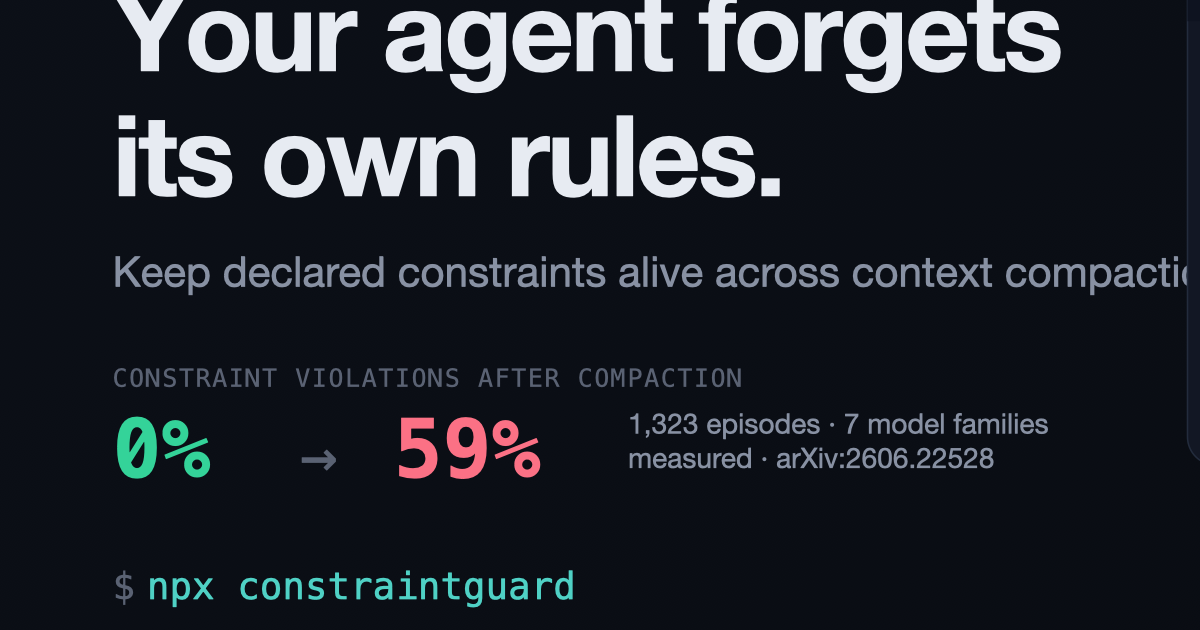
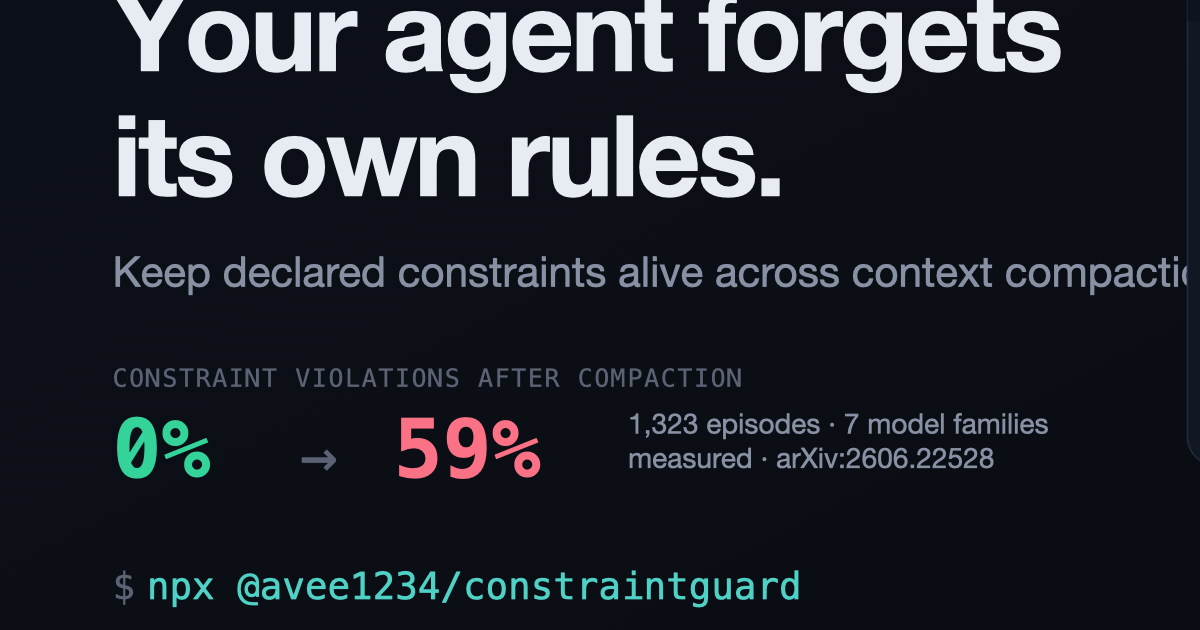
Video v3 (polish + scoped) & site: switch to @user/constraintguard
- Scoped everywhere: npx/npm/import + npm links now @user/constraintguard
  (site, OG card, video). cg bin unchanged.
- Video polish: cohesive per-scene enter/exit motion, live blinking terminal
  cursor, and a redesigned 67s outro with the scoped command + github / npm /
  substack links. Re-rendered + re-scored with the instrumental track.

Changed region(s): [[0.185, 0.9048, 0.6783, 0.9651]]

diff --git a/video-src/launch-video.html b/video-src/launch-video.html
@@ -36,7 +36,12 @@
   .chip{display:inline-flex;align-items:center;gap:10px;font-family:Menlo,monospace;font-size:30px;padding:16px 26px;border-radius:14px;border:1px solid #232c3d;background:#121724;margin:9px;color:#cdd3dc;}
   .chip .d{width:12px;height:12px;border-radius:50%;background:#4fd1c5;}
   .cta-cmd{font-family:Menlo,monospace;font-size:58px;font-weight:700;}
-  .cta-url{font-size:34px;color:#8891a3;margin-top:22px;letter-spacing:.4px;}
+  .cta-url{font-size:32px;color:#8891a3;margin-top:22px;letter-spacing:.4px;}
+  .links{display:flex;flex-direction:column;gap:15px;margin-top:46px;}
+  .lrow{display:flex;align-items:center;gap:22px;}
+  .ltag{font-family:Menlo,monospace;font-size:19px;color:#4fd1c5;width:120px;text-align:right;letter-spacing:1px;}
+  .lval{font-family:Menlo,monospace;font-size:29px;color:#c3cad6;}
+  #tcur{color:#4fd1c5;}
   /* terminal */
   .term{width:1120px;background:#0c111b;border:1px solid #232c3d;border-radius:18px;box-shadow:0 50px 120px -40px rgba(0,0,0,.75);overflow:hidden;font-family:Menlo,monospace;}
   .term-bar{display:flex;align-items:center;gap:9px;padding:16px 20px;background:#0e1320;border-bottom:1px solid #202839;}
@@ -109,6 +114,7 @@
       <div id="t4" class="out">→ retention <span class="rose">54%</span>   6 survived · <span class="rose">5 dropped</span></div>
       <div id="t5" style="margin-top:14px;"><span class="p">$</span> <span class="cmd">cg pin constraints.json after.md</span></div>
       <div id="t6" class="out">→ re-pinned · re-check retention <span class="green">100%</span> ✓</div>
+      <div id="t7" style="margin-top:16px;"><span class="p">$</span> <span id="tcur">▋</span></div>
     </div>
   </div></div></div>
 
@@ -129,9 +135,14 @@
   <div class="scene" id="s12"><div class="col"><div class="big" id="s12t" style="max-width:1200px;">Built &amp; shipped end-to-end by an<br><span class="teal">autonomous agent factory.</span></div></div></div>
 
   <div class="scene" id="s13"><div class="col">
-    <div style="display:flex;align-items:center;gap:20px;margin-bottom:44px;"><div class="dot" style="width:26px;height:26px;border-radius:8px;"></div><div style="font-size:44px;font-weight:800;letter-spacing:-1px;">constraintguard</div></div>
-    <div class="cta-cmd"><span class="faint">$</span> <span class="teal">npx constraintguard</span></div>
-    <div class="cta-url">constraintguard.vercel.app</div>
+    <div style="display:flex;align-items:center;gap:20px;margin-bottom:38px;"><div class="dot" style="width:30px;height:30px;border-radius:9px;"></div><div style="font-size:52px;font-weight:800;letter-spacing:-1.5px;">constraintguard</div></div>
+    <div class="cta-cmd"><span class="faint">$</span> <span class="teal">npx @avee1234/constraintguard</span></div>
+    <div class="links">
+      <div class="lrow" id="l1"><span class="ltag">github</span><span class="lval">github.com/abhid1234/constraintguard</span></div>
+      <div class="lrow" id="l2"><span class="ltag">npm</span><span class="lval">npmjs.com/@avee1234/constraintguard</span></div>
+      <div class="lrow" id="l3"><span class="ltag">substack</span><span class="lval">abhid.substack.com</span></div>
+    </div>
+    <div class="cta-url" style="margin-top:36px;">constraintguard.vercel.app</div>
   </div></div>
 </div>
 
@@ -145,7 +156,7 @@ const $=id=>document.getElementById(id);
 function rise(el,at,lt,d=0.6,dist=16){el.style.opacity=easeOut((lt-at)/d);el.style.transform=`translateY(${lerp(dist,0,easeOut((lt-at)/(d+.1)))}px)`;}
 
 const W={s1:[0.0,4.6],s2:[4.4,8.9],s3:[8.7,18.9],s6:[18.7,24.0],s7:[23.8,30.2],
-  s8:[30.0,34.4],s9:[34.2,39.6],s10:[39.4,48.0],s11:[47.8,53.4],s12:[53.2,57.8],s13:[57.6,62.5]};
+  s8:[30.0,34.4],s9:[34.2,39.6],s10:[39.4,48.0],s11:[47.8,53.4],s12:[53.2,57.8],s13:[57.6,66.5]};
 
 window.render=function(t){
   Object.keys(W).forEach(id=>{$(id).style.opacity=0;});
@@ -191,14 +202,22 @@ window.render=function(t){
   /* s10 terminal typing */
   { $('s10').style.opacity=env(t,...W.s10,0.6,0.5); const lt=t-W.s10[0];
     const show=(el,at)=>{$(el).style.opacity=easeOut((lt-at)/0.4);};
-    show('t1',0.4);show('t2',1.2);show('t3',2.4);show('t4',3.2);show('t5',4.4);show('t6',5.2); }
+    show('t1',0.4);show('t2',1.2);show('t3',2.4);show('t4',3.2);show('t5',4.4);show('t6',5.2);show('t7',6.0);
+    $('tcur').style.opacity=(Math.floor(t*2)%2?1:0.18); }
 
   { $('s11').style.opacity=env(t,...W.s11,0.55,0.5); const lt=t-W.s11[0];
     document.querySelectorAll('#s11 .chip.f').forEach((c,i)=>{const at=0.3+i*0.12;c.style.opacity=easeOut((lt-at)/0.45);c.style.transform=`translateY(${lerp(14,0,easeOut((lt-at)/0.55))}px)`;}); }
 
   { $('s12').style.opacity=env(t,...W.s12); const lt=t-W.s12[0]; $('s12t').style.transform=`translateY(${lerp(12,0,easeOut(lt/0.9))}px)`; }
 
-  { $('s13').style.opacity=env(t,...W.s13,0.7,0.4); const lt=t-W.s13[0]; $('s13').querySelector('.col').style.transform=`translateY(${lerp(14,0,easeOut(lt/1.0))}px)`; }
+  { $('s13').style.opacity=env(t,...W.s13,0.7,0.4); const lt=t-W.s13[0]; $('s13').querySelector('.col').style.transform=`translateY(${lerp(14,0,easeOut(lt/1.0))}px)`;
+    ['l1','l2','l3'].forEach((id,i)=>{const at=0.9+i*0.3;$(id).style.opacity=easeOut((lt-at)/0.5);$(id).style.transform=`translateX(${lerp(-12,0,easeOut((lt-at)/0.6))}px)`;}); }
+
+  /* polish: subtle cohesive enter/exit motion on every scene container */
+  Object.entries(W).forEach(([id,[a,b]])=>{ const el=$(id); const op=+el.style.opacity||0;
+    if(op<=0.001){el.style.transform='';return;}
+    const inP=easeOut((t-a)/0.7), outP=easeOut(clamp((b-t)/0.55));
+    el.style.transform=`translateY(${(lerp(22,0,inP)-(1-outP)*10).toFixed(2)}px) scale(${lerp(0.985,1,inP).toFixed(4)})`; });
 };
 window.render(0);
 </script>

diff --git a/site/index.html b/site/index.html
@@ -269,7 +269,7 @@
     <a class="lnk" href="#playground">Playground</a>
     <a class="lnk hideM" href="#built">How it's built</a>
     <a class="lnk" href="https://github.com/abhid1234/constraintguard" target="_blank" rel="noopener">GitHub</a>
-    <a class="lnk hideM" href="https://www.npmjs.com/package/constraintguard" target="_blank" rel="noopener">npm</a>
+    <a class="lnk hideM" href="https://www.npmjs.com/package/@avee1234/constraintguard" target="_blank" rel="noopener">npm</a>
     <button class="themetog" id="themetog" title="Toggle theme" aria-label="Toggle theme">◑</button>
   </div>
 </header>
@@ -281,7 +281,7 @@
     <p class="lede">When a long-running AI agent compacts its context, the constraints you declared — "never touch production data," "always cite sources" — get silently summarized away. constraintguard extracts them <em>before</em> compaction and re-pins them <em>after</em>, and measures exactly how many rotted.</p>
     <div class="cta">
       <a class="btn pri" href="#playground">Try it live ↓</a>
-      <span class="install"><span><span class="pfx">$</span> npx constraintguard</span><button id="copyInstall">copy</button></span>
+      <span class="install"><span><span class="pfx">$</span> npx @avee1234/constraintguard</span><button id="copyInstall">copy</button></span>
     </div>
     <div class="statband">
       <div class="cell click" id="stat-bench"><div class="n bad">46%</div><div class="k">of declared constraints silently drop across compaction — <u>reproduced live below</u></div></div>
@@ -373,7 +373,7 @@
   <section id="playground">
     <div class="kicker">Playground — runs the real library, in your browser</div>
     <h2 class="sec">Play with it.</h2>
-    <p class="sub">Every demo runs the actual published <code>constraintguard</code> code (imported as ES modules — the same functions <code>npm i constraintguard</code> gives you). Nothing is faked or sent to a server. Pick a scenario, edit any input, and watch it react.</p>
+    <p class="sub">Every demo runs the actual published <code>constraintguard</code> code (imported as ES modules — the same functions <code>npm i @avee1234/constraintguard</code> gives you). Nothing is faked or sent to a server. Pick a scenario, edit any input, and watch it react.</p>
 
     <div class="scen" id="scen">
       <span class="lab">Scenario</span>
@@ -480,7 +480,7 @@
         <h4>① CLI &amp; CI gate</h4>
         <p class="cap">Score how many constraints survived a compaction — fail the build below a threshold.</p>
         <pre><span class="c"># no install needed</span>
-npx constraintguard \
+npx @avee1234/constraintguard \
   conformance old.md new.md \
   --threshold 0.9 --json</pre>
       </div>
@@ -488,7 +488,7 @@ npx constraintguard \
         <h4>② Library</h4>
         <p class="cap">Extract, pin, and score inside your own agent runtime. Zero dependencies, pure ESM.</p>
         <pre>import { pinConstraints }
-  from 'constraintguard';
+  from '@avee1234/constraintguard';
 
 <span class="c">// re-inject before the next turn</span>
 ctx = pinConstraints(set, ctx);</pre>
@@ -539,7 +539,7 @@ ctx = pinConstraints(set, ctx);</pre>
     <span class="brand"><span class="dot"></span> constraintguard</span>
     <span class="sp"></span>
     <a href="https://github.com/abhid1234/constraintguard" target="_blank" rel="noopener">GitHub</a>
-    <a href="https://www.npmjs.com/package/constraintguard" target="_blank" rel="noopener">npm</a>
+    <a href="https://www.npmjs.com/package/@avee1234/constraintguard" target="_blank" rel="noopener">npm</a>
     <span class="badge">MIT · 0 deps · 164 tests</span>
   </div>
 </footer>
@@ -558,7 +558,7 @@ $('#themetog').addEventListener('click', () => {
   const cur = document.documentElement.getAttribute('data-theme') || (matchMedia('(prefers-color-scheme: dark)').matches ? 'dark' : 'light');
   document.documentElement.setAttribute('data-theme', cur === 'dark' ? 'light' : 'dark');
 });
-$('#copyInstall').addEventListener('click', async (e) => { try { await navigator.clipboard.writeText('npx constraintguard'); e.target.textContent = 'copied ✓'; setTimeout(() => e.target.textContent = 'copy', 1400);} catch {} });
+$('#copyInstall').addEventListener('click', async (e) => { try { await navigator.clipboard.writeText('npx @avee1234/constraintguard'); e.target.textContent = 'copied ✓'; setTimeout(() => e.target.textContent = 'copy', 1400);} catch {} });
 $('#stat-bench').addEventListener('click', () => { selectTab('bench'); document.getElementById('playground').scrollIntoView(); setTimeout(runBench, 300); });
 
 /* ---------- tabs ---------- */

diff --git a/video-src/capture.js b/video-src/capture.js
@@ -2,7 +2,7 @@ const puppeteer = require('puppeteer-core');
 const path = require('path');
 
 const CHROME = '/Users/abhijitdas/.cache/puppeteer/chrome/mac_arm-143.0.7499.169/chrome-mac-arm64/Google Chrome for Testing.app/Contents/MacOS/Google Chrome for Testing';
-const FPS = 30, DUR = 63, N = FPS * DUR;
+const FPS = 30, DUR = 67, N = FPS * DUR;
 const FILE = 'file://' + path.resolve(__dirname, 'launch-video.html');
 
 (async () => {